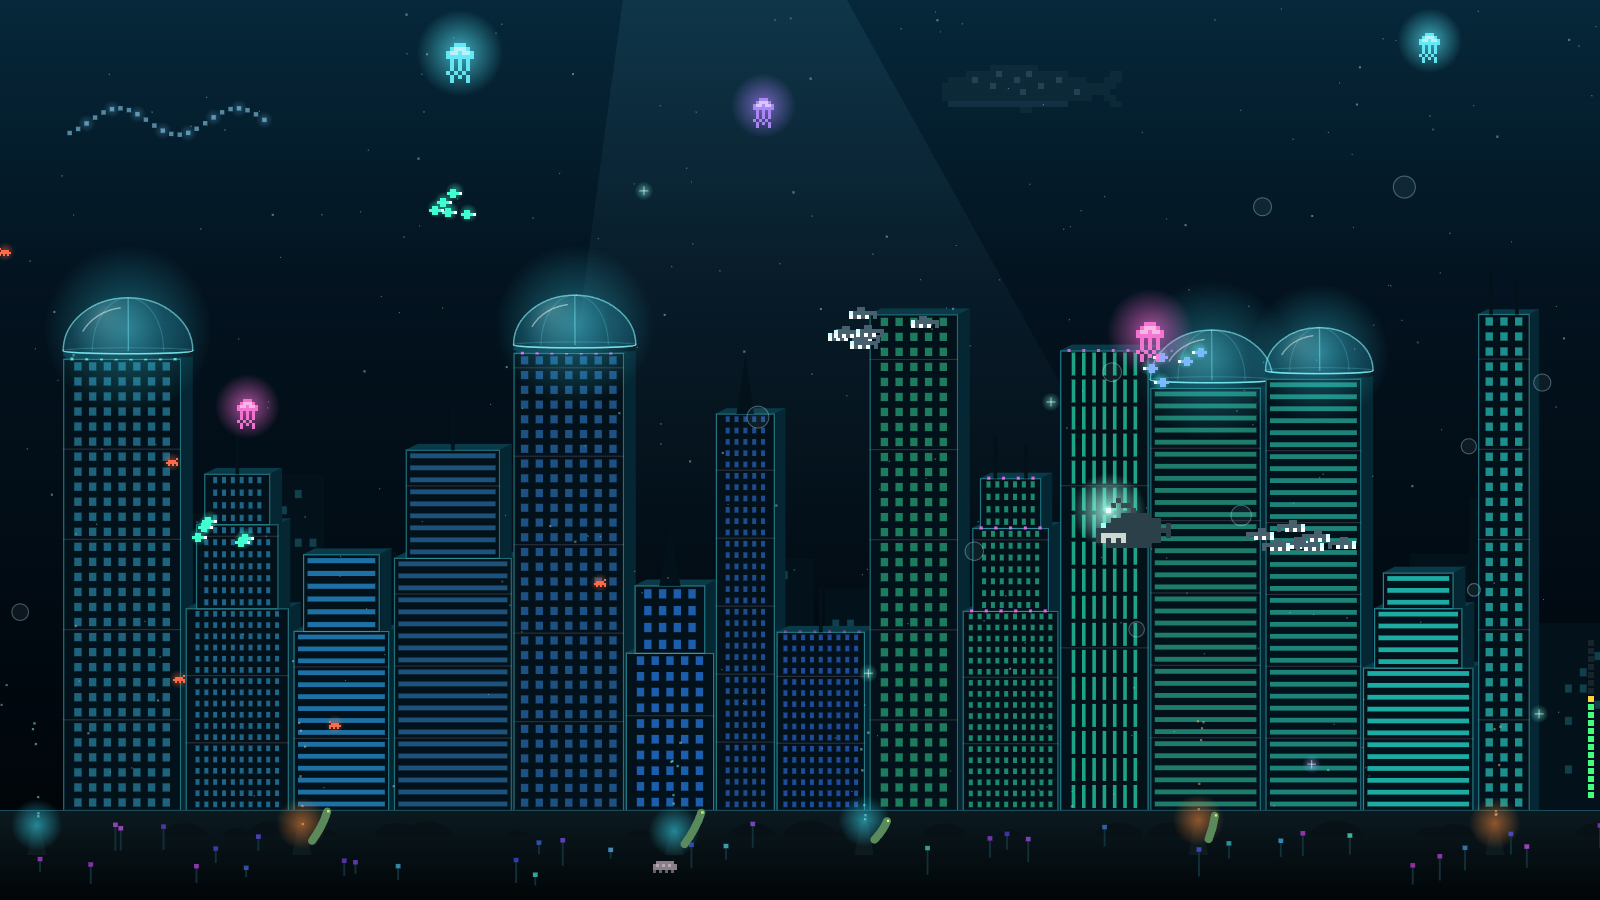
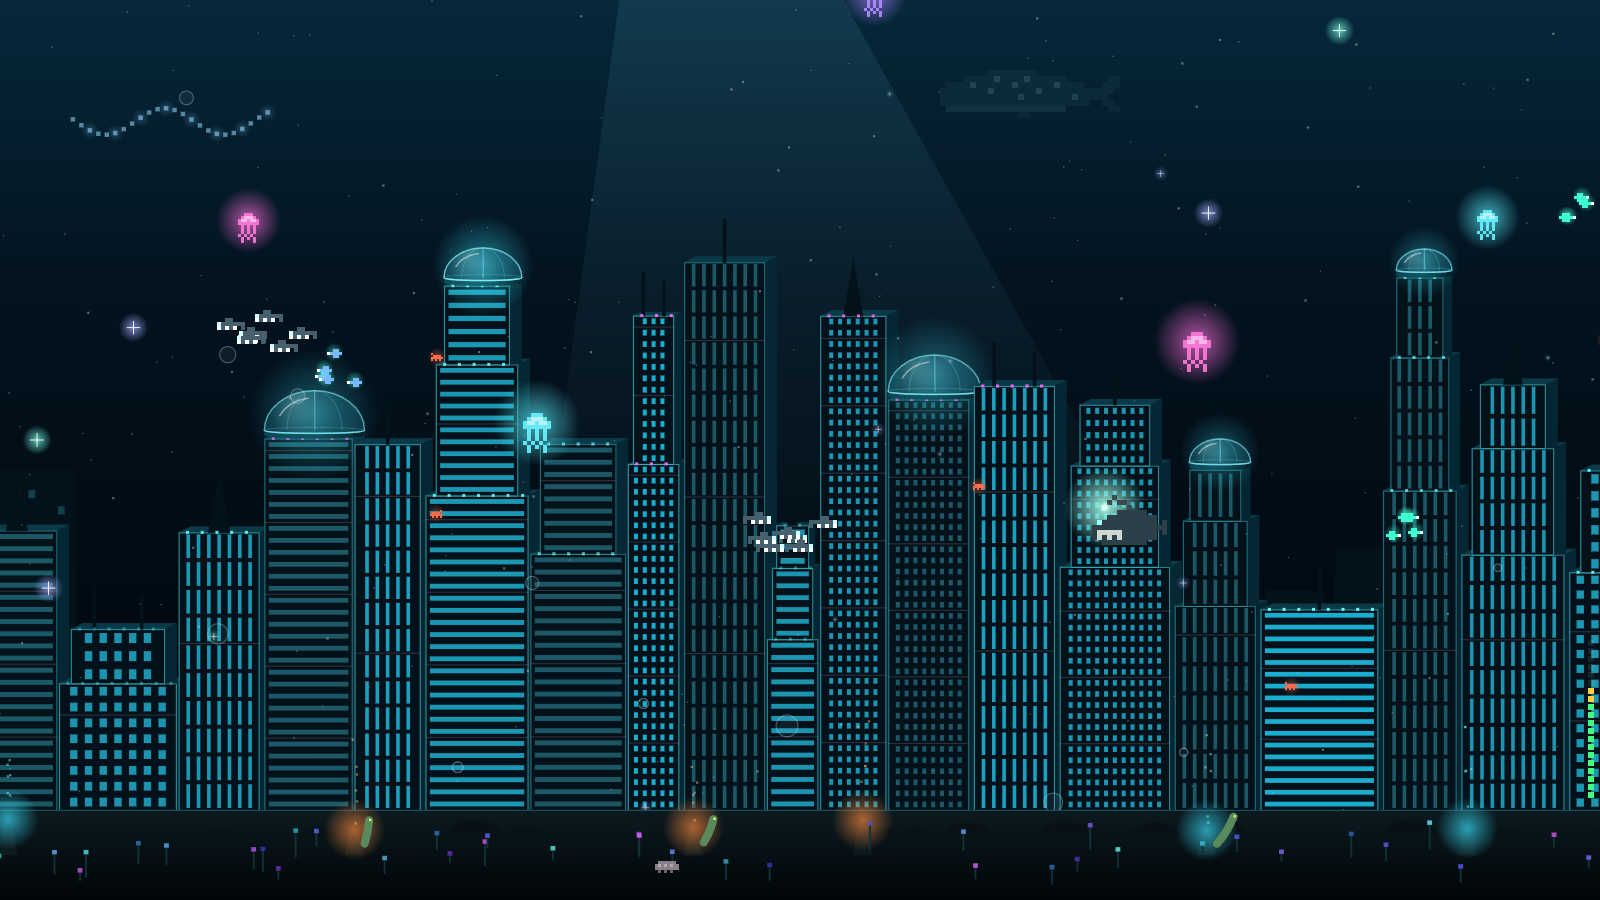
README: Floors and solid-color screenshots, Pan view for Abyssal City and Aero

diff --git a/README.md b/README.md
@@ -12,13 +12,15 @@ A night-time city skyline whose windows pulse to your music. Run it as a small a
 
 ![Chicago skyline with some buildings lit and others dark on the beat](docs/beat.png)
 
-| Shanghai | Noir City in the rain |
+| Shanghai: Floors with random colors, during a loud song | Noir City in the rain: one solid color |
 | --- | --- |
-| ![Shanghai skyline with the Pearl Tower and lit skyscrapers](docs/shanghai.png) | ![Noir City in grey rain with muted colored windows](docs/noir.png) |
+| ![Shanghai skyline with buildings filled almost to the top in random colors](docs/shanghai.png) | ![Noir City in grey rain with every window in one dark teal](docs/noir.png) |
+
+**Pan view:** the city keeps going past the screen edges. Drag or scroll to choose your part of it.
 
 | Abyssal City | Aero |
 | --- | --- |
-| ![Underwater city with glass domes, glowing jellyfish and fish](docs/abyssal.png) | ![Bright daytime city of white glass towers, blue sky and bubbles](docs/aero.png) |
+| ![Underwater city with glass domes and jellyfish, buildings running off both edges](docs/abyssal.png) | ![Bright daytime city of white glass towers, buildings running off both edges](docs/aero.png) |
 
 ## Features
 
